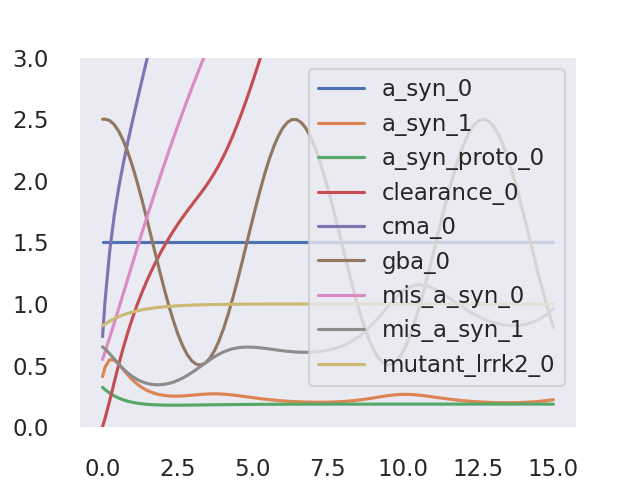
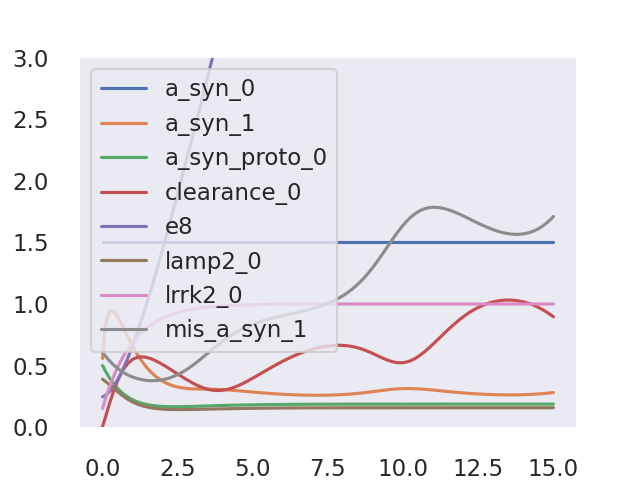
Fixed network regex

Changed region(s): [[0.1562, 0.125, 0.875, 0.875]]

diff --git a/metabolicpd/life/network.py b/metabolicpd/life/network.py
@@ -133,9 +133,9 @@ class Metabolic_Graph:
         for ele in new_unique_metabolites:
             # Using regular expression strings to identify source or sink terms in metabolite dictionary keys
             # starts with e, ends with #...
-            sink_res = re.search("^[e]+[0-9]$", ele)
+            sink_res = re.search("^e[0-9]+$", ele)
             # starts with s, end with #...
-            source_res = re.search("^[s]+[0-9]$", ele)
+            source_res = re.search("^s[0-9]+$", ele)
             if (
                 sink_res is not None
             ):  # check if we found something in the entry that matches the format of 'e###'

diff --git a/metabolicpd/examples/example4.py b/metabolicpd/examples/example4.py
@@ -6,7 +6,7 @@ from metabolicpd.life import network
 
 if __name__ == "__main__":
     s = network.Metabolic_Graph(
-        file="data/simple_pd_network.xlsx",
+        file="data/simple_pd_network_no_sinks_virtual.xlsx",
         mass=None,  # Makes the masses random via constructor
         flux=None,
         source_weights=None,
@@ -23,6 +23,7 @@ if __name__ == "__main__":
     s.fixMetabolite("gba_0", 2.5, -np.sin(s.t_eval), isDerivative=True)
     s.fixMetabolite("a_syn_0", 1.5)
     s.setInitialValue("clearance_0", 0.0)
+    print(s.mtb)
 
     result = s.simulate()
     network.basic_plot(result, s, [0, 1, 3, 6, 17, 22, 23, 25])
